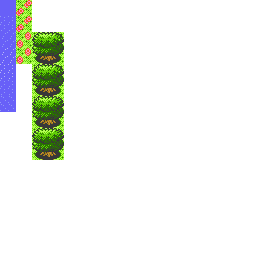
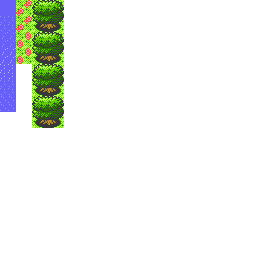
working on animated tiles

diff --git a/functions/tiles.cpp b/functions/tiles.cpp
@@ -31,7 +31,7 @@ class TilesIndex{
 
         animated_tiles.push_back({"water","7","0011"});
         animated_tiles.push_back({"flower","4","1011"});
-        animated_tiles.push_back({"bigTree","4","2222"});
+        animated_tiles.push_back({"bigTree","4","2022"});
 
     //ENVIRONNEMENT
         tiles.push_back({"grass","0011","\\x00","0"});
